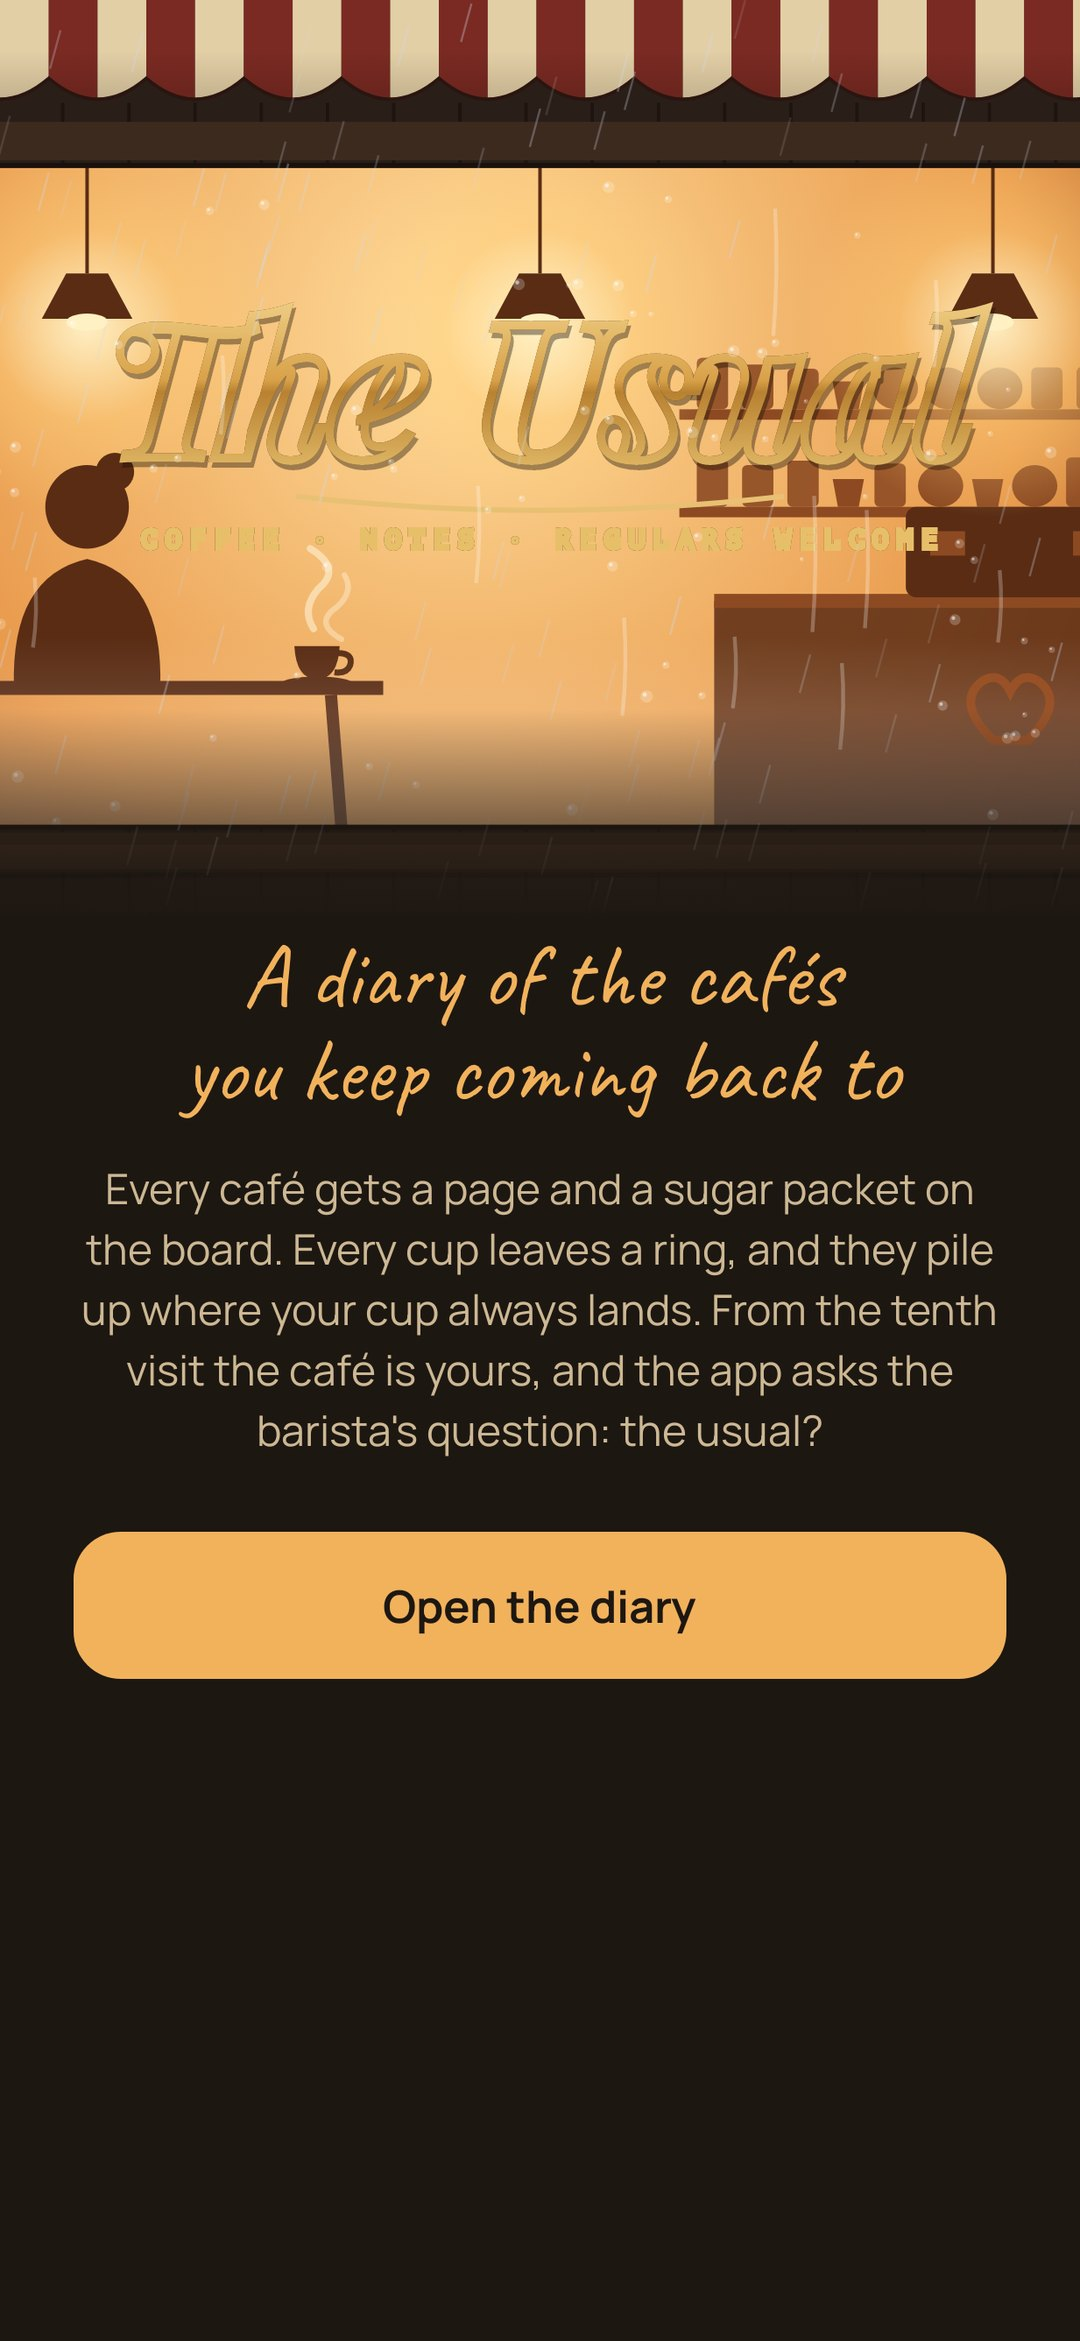
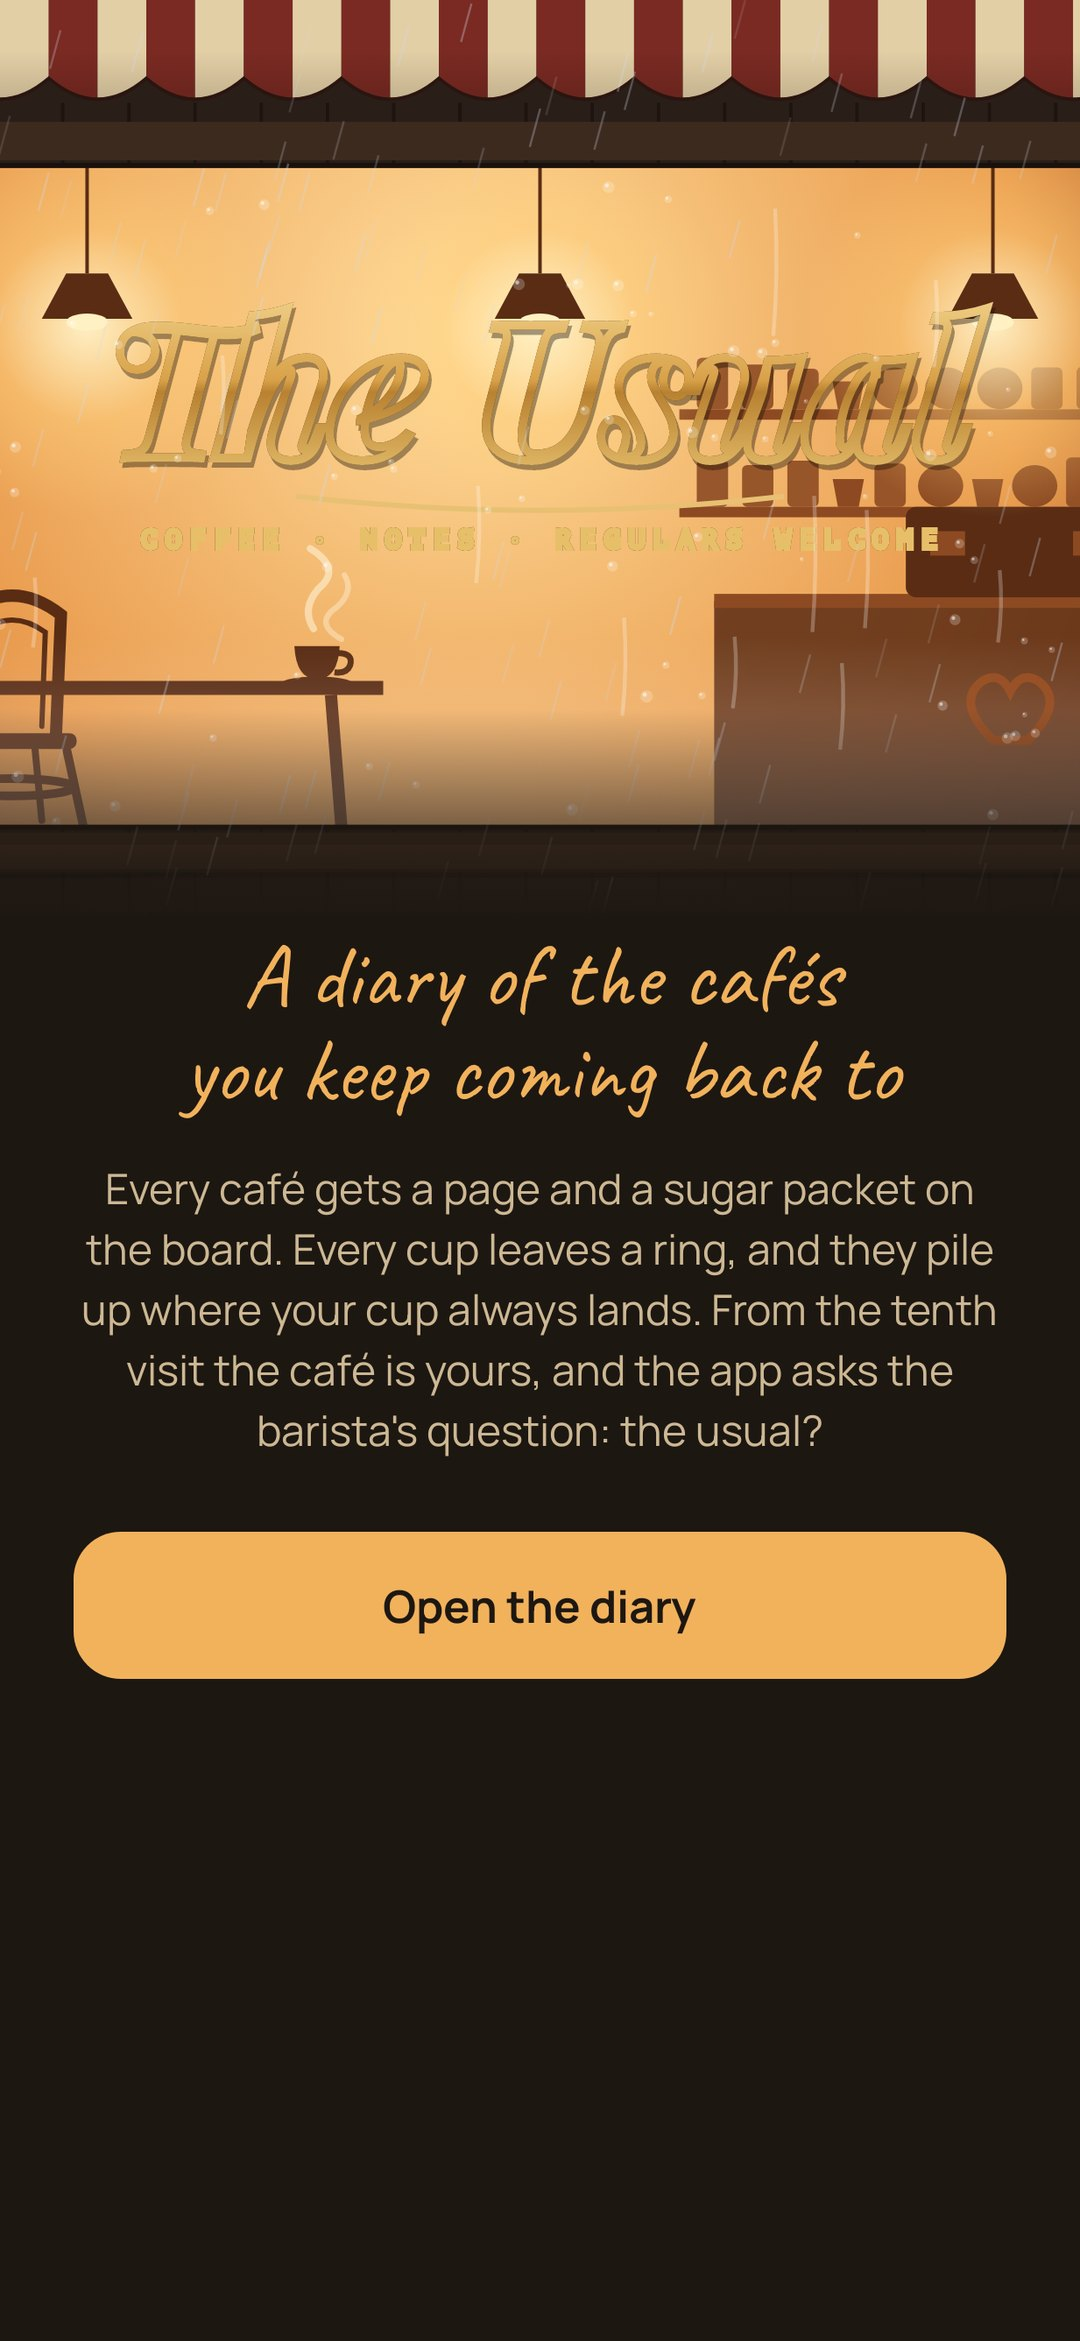
Window scene: an empty chair at the table instead of a figure

Changed region(s): [[0.0, 0.1871, 0.1528, 0.343]]

diff --git a/app/src/main/java/app/theusual/ui/art/Window.kt b/app/src/main/java/app/theusual/ui/art/Window.kt
@@ -38,14 +38,14 @@ import kotlin.random.Random
 const val SCENE_W = 1120f
 const val SCENE_H = 600f
 
-/** Crops of the scene: the whole front, and the table by the window with the reader. */
+/** Crops of the scene: the whole front, and the table by the window with its empty chair. */
 val WholeFront = Rect(0f, 0f, SCENE_W, SCENE_H)
 val ByTheWindow = Rect(140f, 100f, 640f, 476f)
 val InsideDark = Rect(170f, 80f, 930f, 560f)
 
 /**
  * The café from the street on a rainy evening: a striped awning, a big window full of lamplight,
- * someone at the table by it with a cup, shelves and the counter behind, the name in gold
+ * an empty chair at the table by it and a cup, shelves and the counter behind, the name in gold
  * leaf on the glass, a fogged-up corner with a heart drawn in it, a black cat on the sill, a
  * street lamp, wet cobbles. With [lights] off the café has closed: blue dark inside, chairs up on
  * the table, a sign on the door.
@@ -162,7 +162,7 @@ private fun DrawScope.inside(lights: Boolean, b: Bits, steam: Float) {
         drawLine(sil, Offset(190f, WY + 300f), Offset(470f, WY + 300f), 8f)
         drawLine(sil, Offset(220f, WY + 304f), Offset(214f, WY + 380f), 7f)
         drawLine(sil, Offset(440f, WY + 304f), Offset(446f, WY + 380f), 7f)
-        if (lights) reader(sil, steam) else chairsUp(sil)
+        if (lights) spot(sil, steam) else chairsUp(sil)
         // A heart drawn with a finger in the fogged glass.
         val heart = Path().apply {
             moveTo(820f, WY + 330f)
@@ -177,11 +177,18 @@ private fun DrawScope.inside(lights: Boolean, b: Bits, steam: Float) {
     }
 }
 
-/** Someone at the table, looking out, with a cup of something hot. */
-private fun DrawScope.reader(sil: Color, steam: Float) {
-    drawCircle(sil, 24f, Offset(300f, WY + 196f))
-    drawCircle(sil, 11f, Offset(316f, WY + 176f))
-    drawPath(Path().apply { moveTo(258f, WY + 300f); quadraticTo(256f, WY + 236f, 300f, WY + 226f); quadraticTo(344f, WY + 236f, 342f, WY + 300f); close() }, sil)
+/** Your spot by the window, waiting: a bentwood chair pulled up to the table, a cup of something hot. */
+private fun DrawScope.spot(sil: Color, steam: Float) {
+    val leg = Stroke(5f, cap = StrokeCap.Round)
+    // The hooped back, the seat, four legs and the ring between them.
+    drawPath(Path().apply { moveTo(232f, WY + 330f); lineTo(229f, WY + 258f); quadraticTo(257f, WY + 236f, 285f, WY + 258f); lineTo(282f, WY + 330f) }, sil, style = Stroke(7f, cap = StrokeCap.Round))
+    drawPath(Path().apply { moveTo(240f, WY + 322f); lineTo(238f, WY + 268f); quadraticTo(257f, WY + 254f, 276f, WY + 268f); lineTo(274f, WY + 322f) }, sil, style = Stroke(3f, cap = StrokeCap.Round))
+    drawRoundRect(sil, Offset(220f, WY + 326f), Size(74f, 9f), CornerRadius(4f))
+    drawLine(sil, Offset(226f, WY + 334f), Offset(216f, WY + 380f), 5f, StrokeCap.Round)
+    drawLine(sil, Offset(288f, WY + 334f), Offset(298f, WY + 380f), 5f, StrokeCap.Round)
+    drawLine(sil, Offset(244f, WY + 334f), Offset(240f, WY + 376f), 4f, StrokeCap.Round)
+    drawLine(sil, Offset(270f, WY + 334f), Offset(274f, WY + 376f), 4f, StrokeCap.Round)
+    drawOval(sil, Offset(222f, WY + 352f), Size(70f, 10f), style = leg)
     // A cup on its saucer.
     drawOval(sil, Offset(412f, WY + 293.5f), Size(40f, 7f))
     drawPath(Path().apply { moveTo(419f, WY + 276f); lineTo(445f, WY + 276f); quadraticTo(444f, WY + 295f, 432f, WY + 295f); quadraticTo(420f, WY + 295f, 419f, WY + 276f); close() }, sil)
